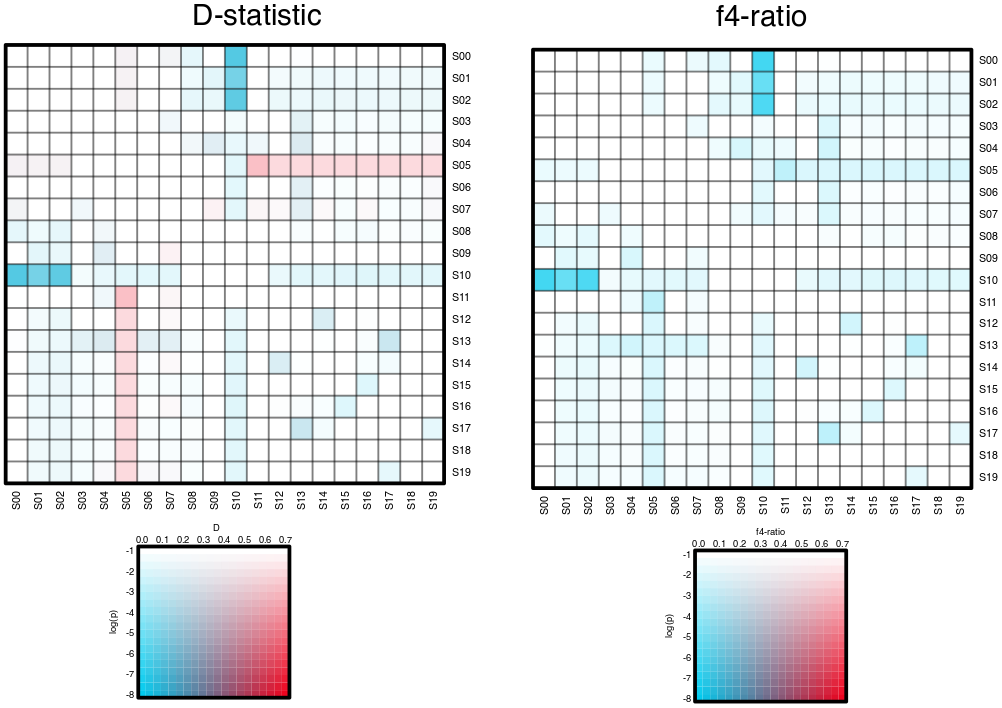
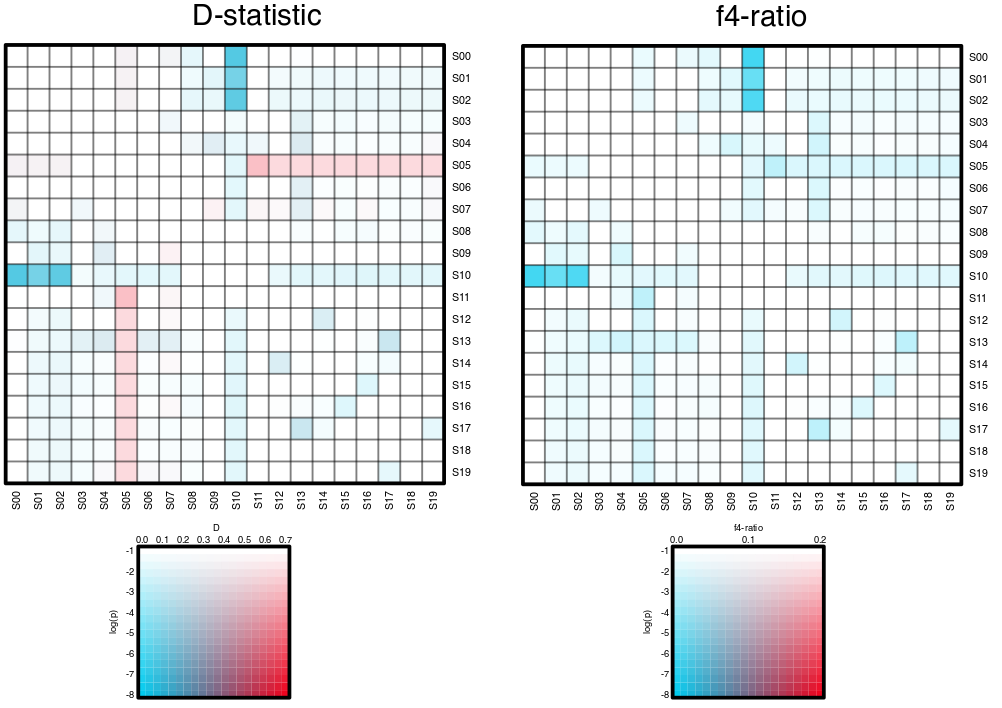
gf5

Changed region(s): [[0.495, 0.0621, 1.0, 0.9944]]

diff --git a/analysis_of_introgression_with_snp_data/README.md b/analysis_of_introgression_with_snp_data/README.md
@@ -361,7 +361,7 @@ plot(D_BBAA$f4.ratio, ylab="f4-ratio",xlab="trio number", ylim=c(0,0.2))
 ```
 
 <details>
-<summary>Click here to see the resulting plots:</summary>
+<summary>Click here to see the resulting R plots</summary>
 
 <p align="center"><img src="img/geneflow_Dvals.png" alt="Dvals\*" width="600"></p>
 <p align="center"><img src="img/geneflow_correctedPvals.png" alt="pvals\*" width="600"></p>
@@ -372,16 +372,19 @@ plot(D_BBAA$f4.ratio, ylab="f4-ratio",xlab="trio number", ylim=c(0,0.2))
 <p>
 <img align="left" src="img/simulated_tree_with_geneflow.png" width="200"> 
 
-The statistics are markedly different for the no-geneflow scenario. The number of D statistics &gt;0.7 here is 85 (compared with 9 above) and very many have significant p values - even after FDR correction, we have p<0.05 for whopping 671 trios. Finally, the f4-ratios are also elevated, up to almost 15% in some cases.  
+As you can see if you click above, the distributions of the statistics are markedly different when compared against the no-geneflow scenario. The number of D statistics &gt;0.7 here is 85 (compared with 9 under no-geneflow) and very many trios now have significant p values - even after FDR correction, we have p&lt;0.05 for whopping 671 trios. Finally, the f4-ratios are also elevated, up to almost 15% in some cases.  
 
 To remind ourselves, the simulated tree and geneflow events are shown on the left. The 15% f4-ratios estimates correspond reasonably well with the strength of the geneflow events that we simulated (in the region of 8% to 18%). However, we simulated only five geneflow events and have 671 significant p values and 138 f4-ratio values above 3%. This is because the test statistics are correlated when trios share an (internal) branch in the overall population or species tree. Therefore, a system of all possible four taxon tests across a data set can be difficult to interpret. In any case (and with any methods) pinpointing specific introgression events in data sets with tens or hundreds of populations or species remains challenging - especially when genetic data is all the evidence we have.  
 
 The scripts [`plot_d.rb`](src/plot_d.rb) and [`plot_f4ratio.rb`](src/plot_f4ratio.rb) were originally developed to help with such interpretation, and can still be useful. Because they take the maximum D or f4-ratio value between species in the P2 and P3 positions, across all possible species in P1, the plot deals with some of the correlated signals and redundancy in the data by focusing on the overall support for geneflow between pairs of species or their ancestors, which could have happened at any time in the past since the species in P2 and P3 positions diverged from each other.
-
-
 </p>
 
+```bash
+ruby plot_d.rb species_sets_with_geneflow_BBAA.txt plot_order.txt 0.7 species_sets_with_geneflow_BBAA_D.svg
+ruby plot_f4ratio.rb species_sets_with_geneflow_BBAA.txt plot_order.txt 0.7 species_sets_with_geneflow_BBAA_f4ratio.svg
+```
 
+<p align="center"><img src="img/species_sets_with_geneflow_BBAA_Dandf4ratio.png" alt="Dvals\*" width="600"></p>
 
 
 ## Identifying introgression with *D*-statistics
